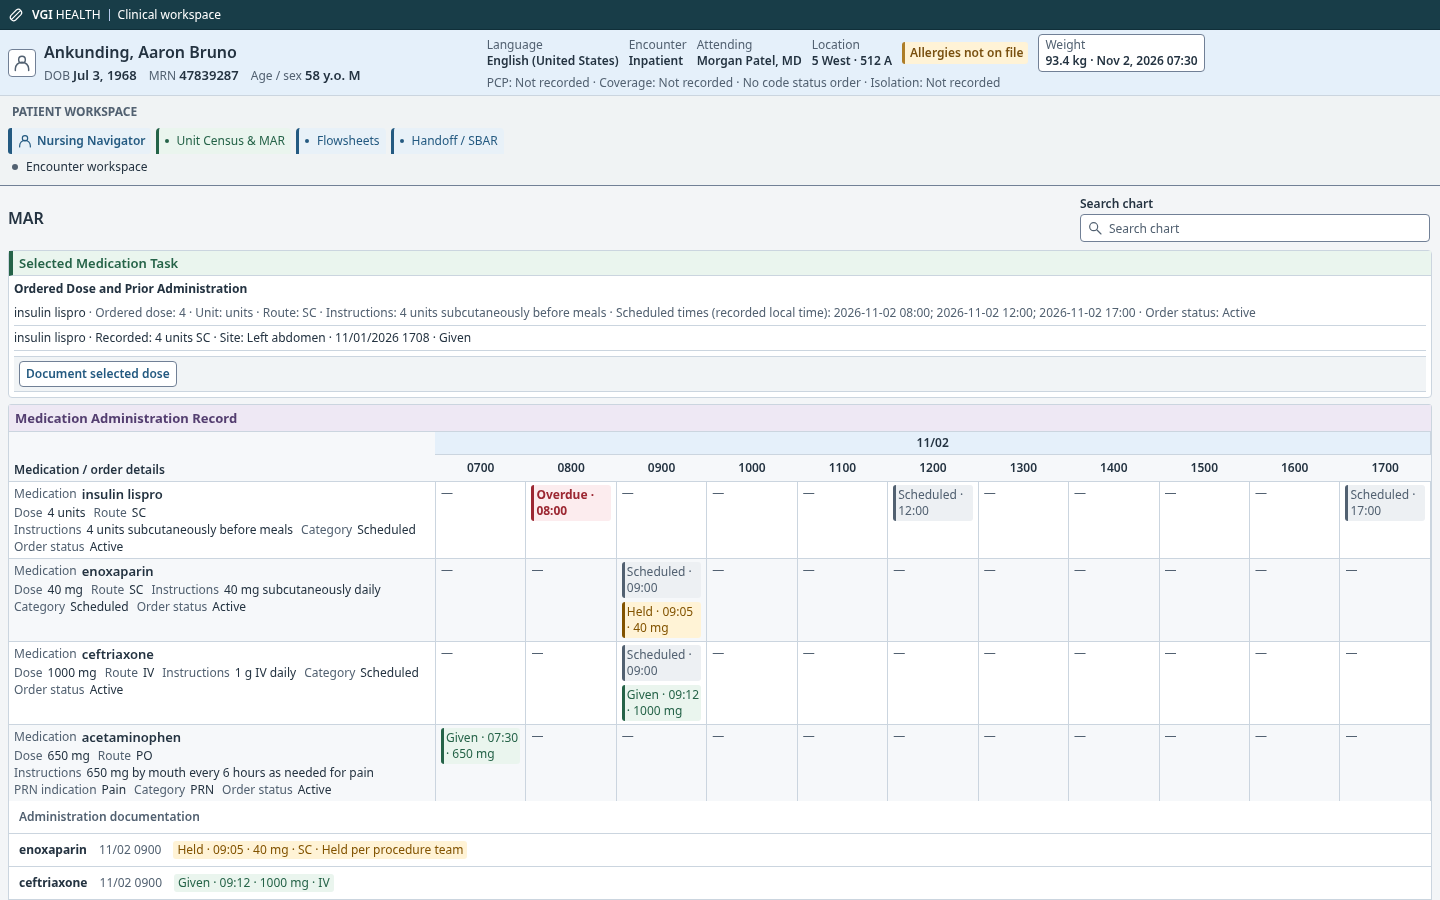
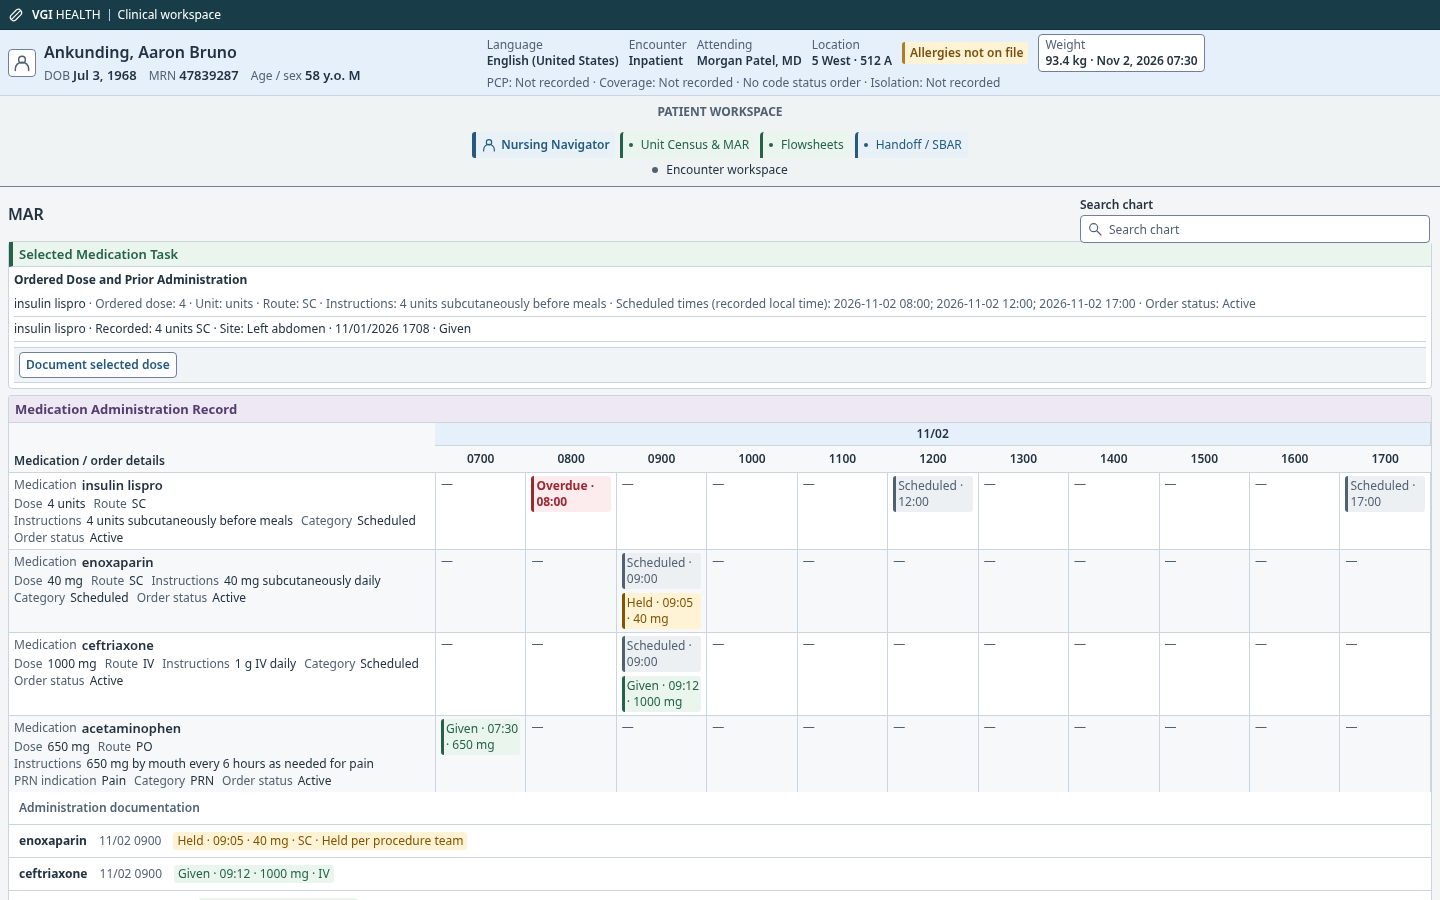
Recover chart space with a single-row clinical toolbar
Retain every caption and semantic control, finish all ten clinical screenshot comparisons, and remove the unused external patient picker component.

diff --git a/app/src/ehr/ui/clinical.css b/app/src/ehr/ui/clinical.css
@@ -1144,3 +1144,11 @@
   .clinical-section-body > .field-narrative { flex-basis: 100%; }
 }
 .workflow-links button[aria-current="page"] { color: var(--section-accent, var(--clinical-primary)); background: white; box-shadow: inset 0 -2px var(--section-accent, var(--clinical-primary)); }
+/* Keep the source groups and both chrome captions on one compact toolbar row. */
+@media (min-width: 1100px) {
+  .clinical-app .clinical-navbar { display: flex; align-items: center; flex-wrap: wrap; gap: 4px; }
+  .clinical-navbar .nav-eyebrow { flex: 0 1 auto; margin: 0; padding: 0 4px; }
+  .clinical-navbar .workflow-groups { flex: 1 1 auto; }
+  .clinical-navbar .nav-footer { flex: 0 1 auto; margin: 0; padding: 0 4px; }
+  .clinical-app main:has(> .clinical-workspace > .clinical-workspace-body > .clinical-field:first-child [data-comp-id$=".chartSearch"]) > .clinical-workspace-heading { min-height: 42px; }
+}

diff --git a/docs/design/ehr-ui-research.md b/docs/design/ehr-ui-research.md
@@ -1478,7 +1478,7 @@ its own stability reference and the current role baseline as canonical. The
 current release constant is shared with live baseline login. Native `spec-export`
 must match the checked-in current spec before the checker can report a verdict.
 No migration, deployment, application, reversal or run-data write occurs; temporary
-adapter inputs are removed. The button says “Check only: nothing is changed”.
+native inputs are removed. The button says “Check only: nothing is changed”.
 Native tests verify passing/current and rejecting/historical cases, source hashes
 unchanged, path/persona restrictions and no access to authored mock revisions.
 
@@ -1488,3 +1488,9 @@ committed simulation calendar (including the weekend), independent of patient
 selection. Patient opening and list-versus-chart semantics remain owned by the
 Lean content/transport lane; the precise historical-program integration request
 is in `changes-requests.md`.
+
+The final P4 Rooming review exposed redundant vertical toolbar space. Its two
+chrome captions now remain visible alongside the source groups in one wrapping
+row; the clinical heading/search row is shorter. This recovers vertical chart
+space without removing content. The final comparison set contains the ten
+requested clinical screens and one additional interruptive-alert pair.

diff --git a/docs/design/visual-style.md b/docs/design/visual-style.md
@@ -215,3 +215,11 @@ and [MAR summary](https://cstcernerhelp.healthcarebc.ca/Patient_Chart/Medication
 CST uses red overdue tasks and yellow current-time columns; its given/PRN colors
 vary by view. Our green given/amber held/yellow due-soon mapping is the owner's
 explicit VGI convention, not a claim that all vendors use identical colors.
+
+Desktop toolbar refinement: the navigator's chrome captions and declared groups
+share a wrapping row instead of three separate rows. No caption, destination or
+clinical control is removed. The chart-search heading row is 42 px where the
+source supplies search. Track Board is orange, Unit Census green, OR Schedule
+amber, In Basket purple and Schedule blue; these accents identify activities,
+not patient acuity. Status spelling variants such as `needs-action`, `on-hold`
+and `cosign-required` receive the same color as their space-separated labels.
